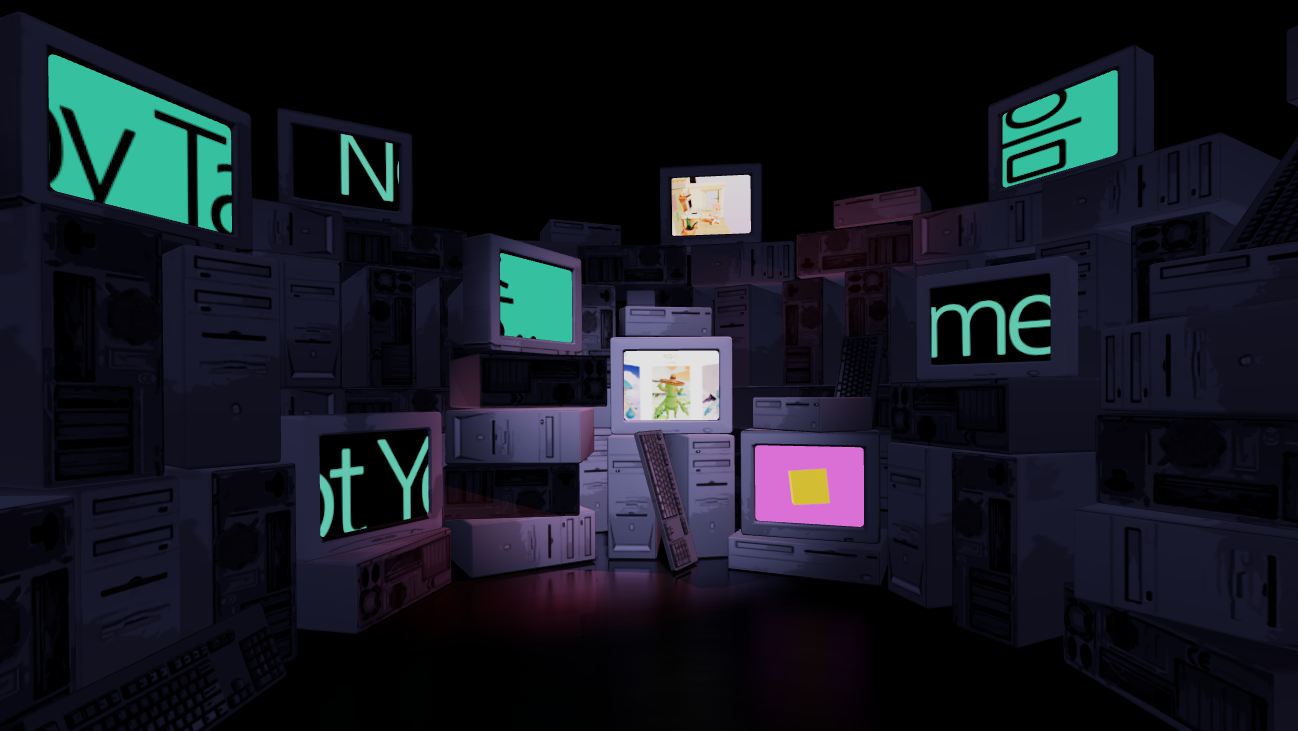
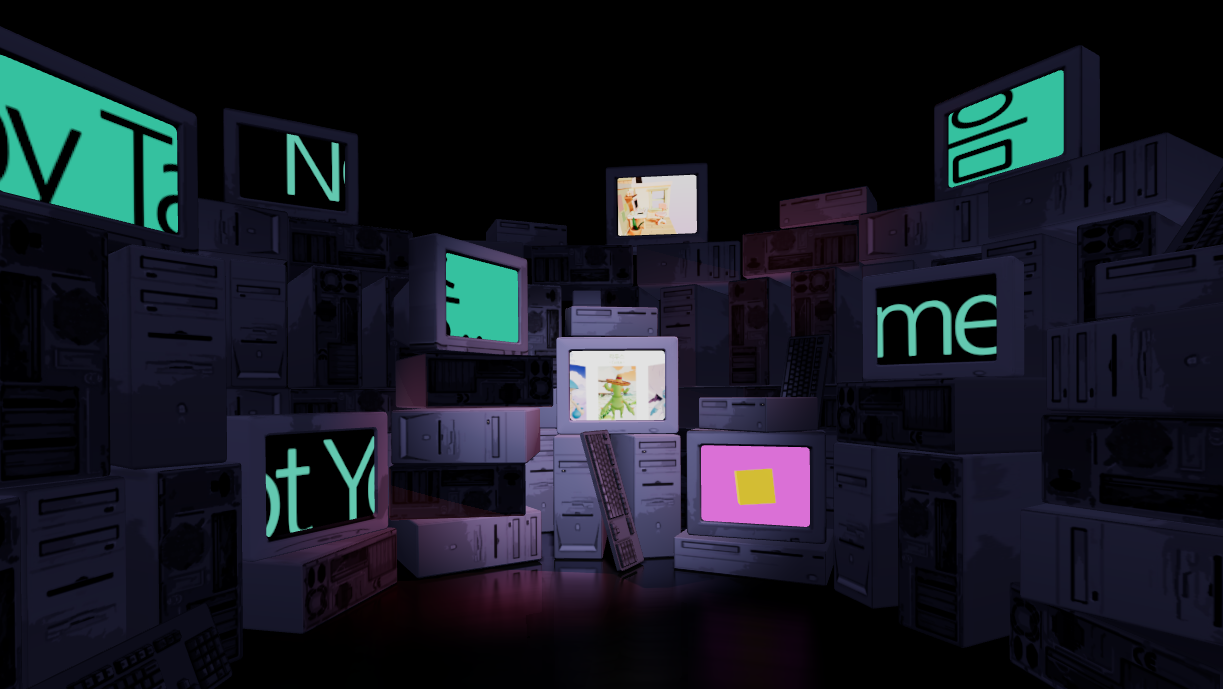
CHANGE/ image size (og + tw) FIx/ css, potal page Suspense fallback

diff --git a/src/app/layout.tsx b/src/app/layout.tsx
@@ -60,8 +60,8 @@ export default function RootLayout({
           property='og:image:url'
           content={DOMAIN_URL + '/screen_home.png'}
         />
-        <meta property='og:image:width' content='1298' />
-        <meta property='og:image:height' content='731' />
+        <meta property='og:image:width' content='1223' />
+        <meta property='og:image:height' content='689' />
         <meta property='og:image:alt' content={META_PROJECT_NAME} />
         <meta property='og:type' content='website' />
 

diff --git a/src/app/Potal/page.tsx b/src/app/Potal/page.tsx
@@ -6,7 +6,11 @@ import Skelton from '@components/Skelton';
 const Potal = dynamic(() => import('@components/Potal'), {
   ssr: false,
   loading: () => (
-    <Skelton message='세계를 그리는 중..' backgroundColor='white' />
+    <Skelton
+      message='세계를 그리는 중..'
+      backgroundColor='white'
+      color='purple'
+    />
   ),
 });
 

diff --git a/src/components/Potal/index.tsx b/src/components/Potal/index.tsx
@@ -298,7 +298,7 @@ function Potal() {
 
       <Loader
         containerStyles={{ background: 'white' }}
-        dataStyles={{ color: 'black' }}
+        dataStyles={{ color: 'purple' }}
       />
     </>
   );
